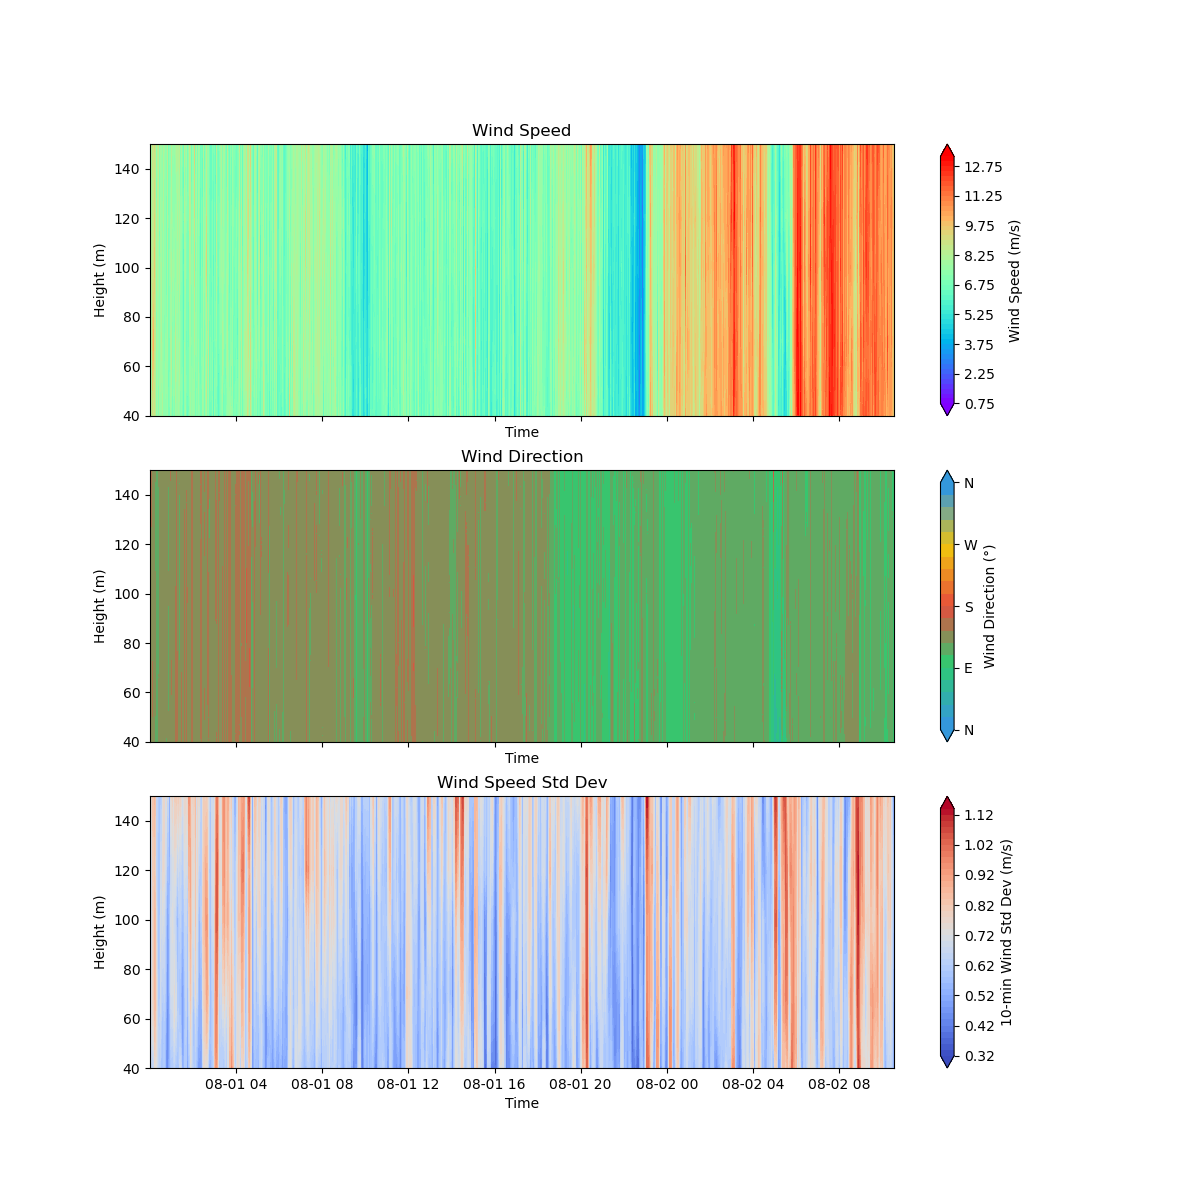
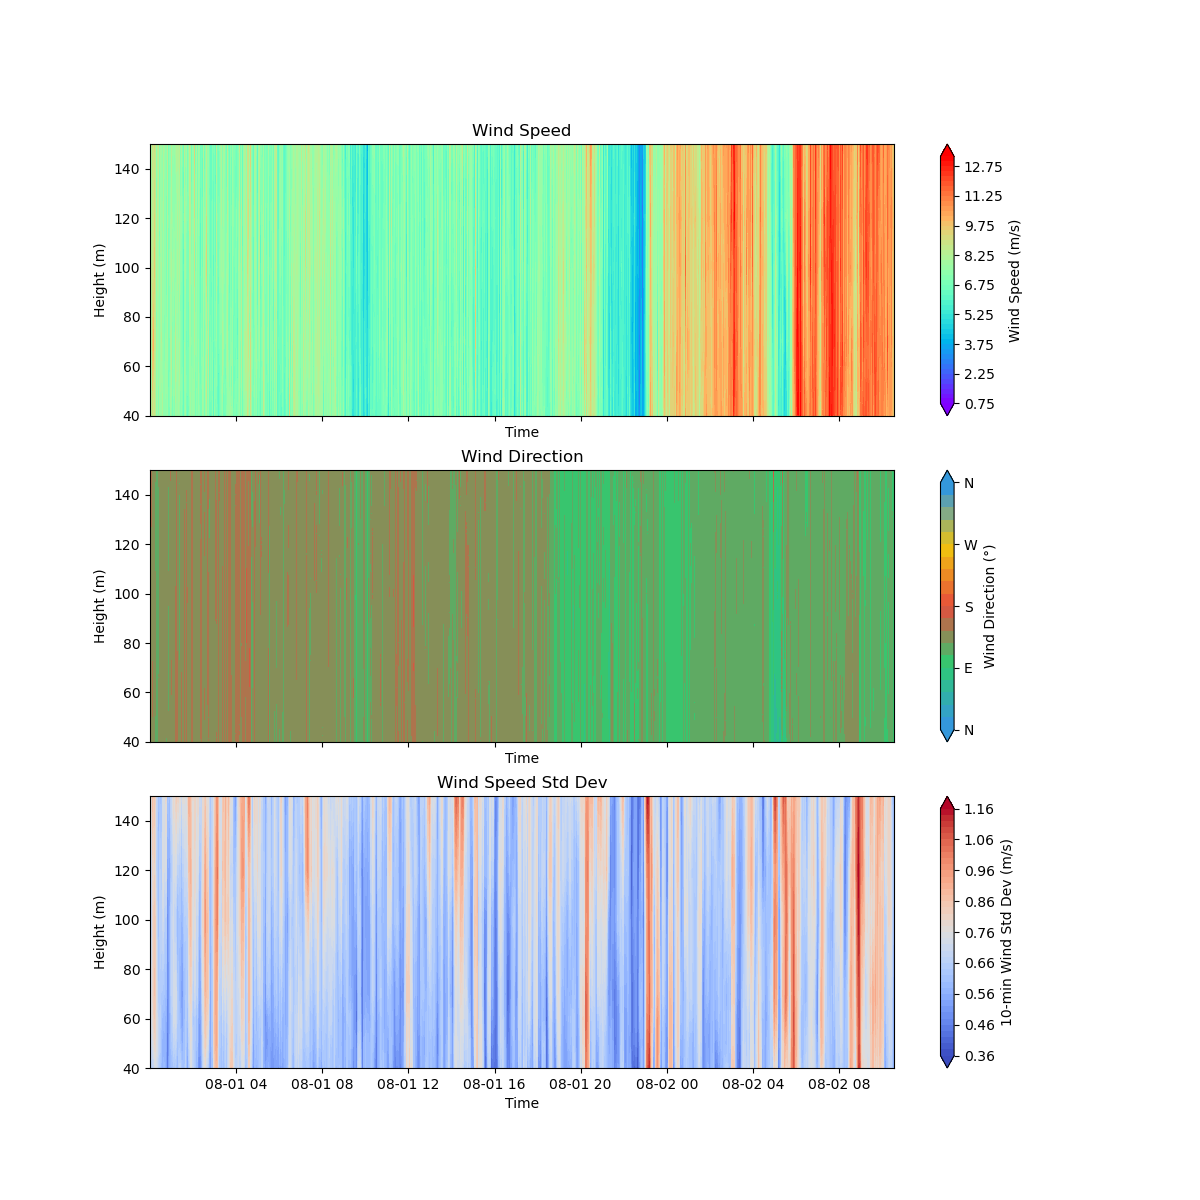
Fixes

Changed region(s): [[0.1233, 0.6475, 0.74, 0.8942], [0.8017, 0.6783, 0.8325, 0.8633]]

diff --git a/hovmollers.py b/hovmollers.py
@@ -70,6 +70,10 @@ ds = create_xarray_dataset(df_combined)
 # Automatically detect the available heights from the dataset
 available_heights = ds.coords['height'].values
 
+# Time array for the x-axis (assuming you already have timestamps in the data)
+time = pd.to_datetime(df_combined['Timestamp'])
+time = time.ffill()  # Forward fill NaN values in timestamps
+
 # Aggregate wind speed data for each height
 # Handle NaN values in wind speed data by forward-filling along the time dimension
 hovmoller_data_speed = np.vstack([
@@ -77,9 +81,18 @@ hovmoller_data_speed = np.vstack([
     for height in available_heights
 ])
 
+# Compute the time difference between consecutive time steps
+time_diff = time.diff().dropna().median()  # Use median to handle any irregularities
+
+# Convert time difference to seconds (assuming it's in Timedelta format)
+time_diff_in_seconds = time_diff.total_seconds()
+
+# Compute the number of time steps in 10 minutes (600 seconds)
+time_steps_for_10_minutes = int(600 / time_diff_in_seconds)
+
 # Compute rolling standard deviation for each height (for wind speed)
 hovmoller_data_std = np.vstack([
-    ds.wind_cube.compute_std_detrended_data(ds.wind_cube.get_variable(height, 'Wind Speed (m/s)'), window_size=600).values
+    ds.wind_cube.compute_std_detrended_data(ds.wind_cube.get_variable(height, 'Wind Speed (m/s)'), window_size=time_steps_for_10_minutes).values
     for height in available_heights
 ])
 
@@ -89,11 +102,6 @@ hovmoller_data_dir = np.vstack([
     ds.wind_cube.get_variable(height, 'Wind Direction (°)').ffill(dim='time').values
     for height in available_heights
 ])
-
-# Time array for the x-axis (assuming you already have timestamps in the data)
-time = pd.to_datetime(df_combined['Timestamp'])
-time = time.ffill()  # Forward fill NaN values in timestamps
-vertical_levels = ds.coords['height'].values
 
 # Xolormap for wind speed
 speed_cmap = 'rainbow'
@@ -108,13 +116,13 @@ std_cmap = 'coolwarm'
 fig, axes = plt.subplots(nrows=3, figsize=(12, 12), sharex=True)
 
 # Plot the wind speed in the first row
-plot_hovmoller(axes[0], hovmoller_data_speed, time, vertical_levels, speed_cmap, 'Wind Speed (m/s)', 'Wind Speed', levels=50)
+plot_hovmoller(axes[0], hovmoller_data_speed, time, available_heights, speed_cmap, 'Wind Speed (m/s)', 'Wind Speed', levels=50)
 
 # Plot the wind direction in the second row
-plot_hovmoller(axes[1], hovmoller_data_dir, time, vertical_levels, cyclic_cmap, 'Wind Direction (°)', 'Wind Direction', levels=np.linspace(0, 360, 361))
+plot_hovmoller(axes[1], hovmoller_data_dir, time, available_heights, cyclic_cmap, 'Wind Direction (°)', 'Wind Direction', levels=np.linspace(0, 360, 361))
 
 # Plot the wind speed standard deviation in the third row
-plot_hovmoller(axes[2], hovmoller_data_std, time, vertical_levels, std_cmap, '10-min Wind Std Dev (m/s)', 'Wind Speed Std Dev', levels=50)
+plot_hovmoller(axes[2], hovmoller_data_std, time, available_heights, std_cmap, '10-min Wind Std Dev (m/s)', 'Wind Speed Std Dev', levels=50)
 
 # Save the final figure with all three plots
 os.makedirs('plots', exist_ok=True)
